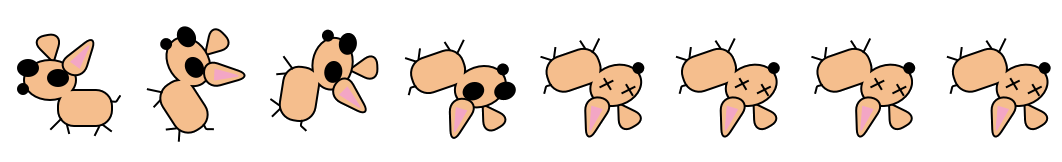
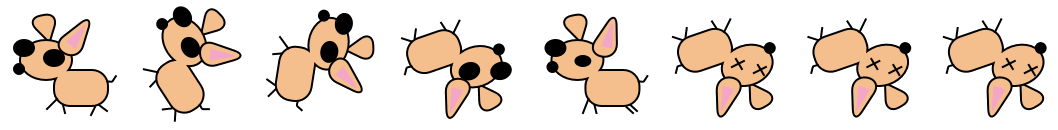
updated mouse/dog animations for walk, added dog to enemies

Changed region(s): [[0.0, 0.0308, 0.9981, 0.9231], [0.156, 0.6154, 0.2183, 0.8923]]

diff --git a/js/stateMainAlternative.js b/js/stateMainAlternative.js
@@ -19,8 +19,8 @@ var StateMain={
     	game.load.image("background", "images/background1.png");
     	game.load.spritesheet("mondo", "images/mondo.png", 320, 265, 8);
         game.load.spritesheet("playBtn", "images/playBtns.png", 624, 290, 4);
-    	game.load.spritesheet("mouse", "images/mouse.png", 171, 160, 8);
-    	game.load.spritesheet("chihuahua", "images/chihuahua.png", 132, 162, 8);
+    	game.load.spritesheet("mouse", "images/mouse.png", 168, 170, 8);
+    	game.load.spritesheet("chihuahua", "images/chihuahua.png", 132, 130, 8);
         game.load.spritesheet("deadDog", "images/deadDog.png", 496, 424, 1);
         game.load.spritesheet("deadMouse", "images/deadMouse.png", 602, 224, 1);
 	},
@@ -38,12 +38,20 @@ var StateMain={
         this.mice = game.add.group();
         this.mice.enableBody = true;
         this.mice.physicsBodyType = Phaser.Physics.ARCADE;
-        for (var i = 0; i < 3; i++) {
-            var mouse = this.mice.create(game.width, this.background.y+300, 'mouse');
-            this.setMouseAnimations(mouse);
+        for (var i = 0; i < 8; i++) {
+            if (i % 3 == 0) {
+                var dog = this.mice.create(game.width, this.background.y+300, "chihuahua");
+                this.setDogAnimations(dog);
+                console.log(dog);
+            } else {
+                var mouse = this.mice.create(game.width, this.background.y+300, 'mouse');
+                this.setMouseAnimations(mouse);
+            }
+
         }
         this.mice.setAll("outOfBoundsKill", true);
         this.mice.setAll('checkWorldBounds', true);
+       
 
         // Mondo
         this.mondo = game.add.sprite(0,this.background.y + 250,"mondo");
@@ -157,14 +165,22 @@ var StateMain={
     },
     setMondoAnimations: function() {
         this.mondo.animations.add('eatDog', [3, 4, 4, 4, 1], 2, false);
-        var eat = this.mondo.animations.add('eatMouse', [2, 5, 5, 5, 2], 2, false);
+        var eatM = this.mondo.animations.add('eatMouse', [2, 5, 5, 5, 2], 2, false);
+        var eatD = this.mondo.animations.add('eatDog', [2, 4, 4, 4, 2], 2, false);
         this.mondo.animations.add('walk', [0, 1], 2, true);
         this.mondo.animations.add('belly', [6], 6, false);
-        eat.onComplete.add(this.eatComplete, this);
+        
+        eatM.onComplete.add(this.eatComplete, this);
+        eatD.onComplete.add(this.eatComplete, this);
     },
     setMouseAnimations: function(mouse) {
-        mouse.animations.add('walk', [0], 12, false);
+        mouse.animations.add('walk', [0, 0, 0, 4], 2, true);
         var flip = mouse.animations.add('flip', [0, 1, 2, 3, 0, 1, 2, 3, 4, 5, 6, 7, 8], 12, false);
+        flip.onComplete.add(this.flipComplete, this);
+    },
+    setDogAnimations: function(dog) {
+        dog.animations.add('walk', [0, 0, 0, 0, 0, 0, 0, 4], 2, true);
+        var flip = dog.animations.add('flip', [0, 1, 2, 3, 0, 1, 2, 3, 4, 5, 6, 7, 8], 12, false);
         flip.onComplete.add(this.flipComplete, this);
     },
     wrongWay:function() {
@@ -186,11 +202,15 @@ var StateMain={
         this.enemyIndex++;
         this.launchTimer = game.time.now + Phaser.Timer.SECOND * 5;
     },
-    collisionHandler: function(mondo, mouse){
+    collisionHandler: function(mondo, enemy){
         this.eating = true;
-        mondo.play('eatMouse');
-        mouse.play('flip');
-        mouse.body.velocity.x = 50;
+        if (enemy.key == "mouse") {
+            mondo.play('eatMouse');  
+        } else {
+            mondo.play('eatDog');
+        }
+        enemy.play('flip');
+        enemy.body.velocity.x = 50;
     },
     eatComplete: function(sprite, animation){
         this.eating = false;
